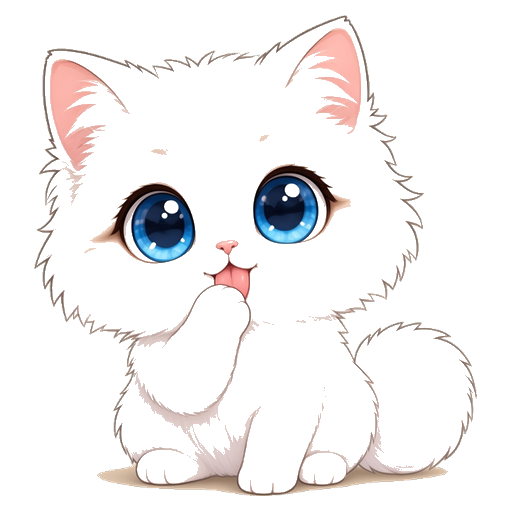
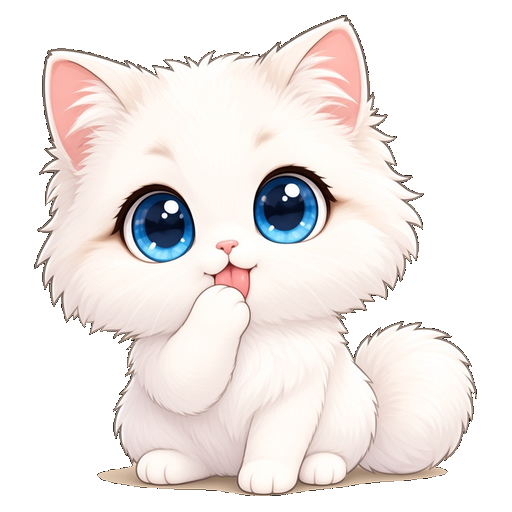
Fix homepage scroll, solid Nomi, hover-to-animate (#5)
Document scroll on homepage; solid idle Nomi PNG; animate WebP only on hover/focus.

diff --git a/style.css b/style.css
@@ -20,9 +20,11 @@ html{
 @media (prefers-reduced-motion:reduce){
   *,*::before,*::after{animation-duration:0.01ms !important;transition-duration:0.01ms !important;}
 }
+html{overflow-x:hidden;scroll-behavior:smooth}
 body{
-  display:flex;min-height:100dvh;
+  display:block;min-height:100dvh;
   padding:var(--pad-t) var(--pad-x) var(--pad-b);
+  padding-bottom:max(var(--pad-b),calc(var(--pad-b) + 48px));
   background:var(--bg);color:var(--ink);font-family:var(--font);font-weight:400;
 }
 a{color:inherit;text-decoration:none}
@@ -31,8 +33,8 @@ button{font:inherit;color:inherit;background:none;border:0;cursor:pointer}
 
 .frame{
   display:flex;flex-direction:column;width:100%;
-  height:calc(100dvh - var(--pad-t) - var(--pad-b));
-  min-height:min-content;overflow-x:hidden;overflow-y:auto;
+  min-height:calc(100dvh - var(--pad-t) - var(--pad-b));
+  height:auto;overflow:visible;
   background:var(--panel);
   border-top:var(--hairline) solid var(--rule);
   border-bottom:var(--hairline) solid var(--rule);
@@ -120,8 +122,9 @@ button{font:inherit;color:inherit;background:none;border:0;cursor:pointer}
   border-bottom:var(--hairline) solid var(--rule);
 }
 .hero{
-  flex:1 1 auto;display:flex;flex-direction:column;align-items:center;
-  min-height:0;overflow:hidden;isolation:isolate;position:relative;
+  flex:0 0 auto;display:flex;flex-direction:column;align-items:center;
+  min-height:clamp(520px,calc(100dvh - var(--hdr-h) - var(--hatch-h) * 2 - var(--strip-h) - 48px),920px);
+  overflow:visible;isolation:isolate;position:relative;
   border-bottom:var(--hairline) solid var(--rule);
   border-left:var(--hairline) solid var(--rule);
   border-right:var(--hairline) solid var(--rule);
@@ -137,8 +140,8 @@ button{font:inherit;color:inherit;background:none;border:0;cursor:pointer}
 .copy{flex:0 0 auto;padding:0 26rem;text-align:center;position:relative;z-index:1;width:100%}
 .gutter{flex:8 0 0;min-height:20rem;position:relative;z-index:1}
 .stage{
-  flex:78 1 0;min-height:0;overflow:hidden;display:flex;align-items:flex-end;justify-content:center;
-  position:relative;z-index:1;width:100%;padding:0 40rem;
+  flex:1 1 auto;min-height:320px;overflow:visible;display:flex;align-items:flex-end;justify-content:center;
+  position:relative;z-index:1;width:100%;padding:0 40rem 8rem;
 }
 .eyebrow{
   display:inline-flex;align-items:center;gap:8rem;
@@ -174,7 +177,7 @@ a.folio-main:hover{background:#faf9f6}
 }
 .folio-label > span{text-transform:uppercase;letter-spacing:0.08em}
 .folio-label strong{font-weight:400;color:var(--ink);letter-spacing:-0.01em;text-transform:none;font-size:max(11px,12.5rem)}
-.folio-body{flex:1 1 auto;min-height:0;padding:22rem 20rem 28rem;display:flex;flex-direction:column;gap:14rem;overflow:hidden}
+.folio-body{flex:1 1 auto;min-height:0;padding:22rem 20rem 28rem;display:flex;flex-direction:column;gap:14rem;overflow:visible}
 .folio-kicker{font-family:var(--mono);font-size:max(10px,11rem);letter-spacing:0.04em;color:var(--muted)}
 .folio-title{font-size:max(18px,22rem);letter-spacing:-0.025em;line-height:1.2;color:var(--ink)}
 .folio-desc{font-size:max(12px,13.2rem);line-height:1.45;letter-spacing:-0.015em;color:var(--body);max-width:34em}
@@ -210,8 +213,10 @@ a.folio-main:hover{background:#faf9f6}
 .nomi-fab:hover{transform:translateY(-4px) scale(1.06)}
 .nomi-fab img.nomi-face{
   width:200px;height:200px;object-fit:contain;display:block;border-radius:0;
-  pointer-events:none;background:transparent;filter:drop-shadow(0 10px 18px rgba(30,28,22,.14));
+  pointer-events:none;background:transparent;opacity:1;
+  filter:drop-shadow(0 10px 18px rgba(30,28,22,.14));
 }
+#nomiFab{opacity:1}
 .nomi-avatar img.nomi-face{width:100%;height:100%;object-fit:contain;display:block;border-radius:0;background:transparent}
 .nomi-fab .pulse{display:none}
 @keyframes nomiPulse{0%{transform:scale(.92);opacity:.55}70%{transform:scale(1.12);opacity:0}100%{opacity:0}}
@@ -280,7 +285,7 @@ a.folio-main:hover{background:#faf9f6}
 @media (max-width:780px){:root{--strip-h:64px}}
 @media (max-width:470px){
   :root{--pad-x:clamp(12px,4vw,18px);--pad-t:clamp(12px,3vw,16px);--pad-b:clamp(12px,3vw,16px);--hdr-h:56px;--strip-h:60px;--lift:7px;--rise:14px}
-  body{padding-left:max(var(--pad-x),env(safe-area-inset-left));padding-right:max(var(--pad-x),env(safe-area-inset-right));padding-bottom:max(var(--pad-b),env(safe-area-inset-bottom))}
+  body{padding-left:max(var(--pad-x),env(safe-area-inset-left));padding-right:max(var(--pad-x),env(safe-area-inset-right));padding-bottom:max(calc(var(--pad-b) + 56px),env(safe-area-inset-bottom))}
   h1{font-size:clamp(22px,calc(8.33vw - 2px),34px)}.sub{font-size:14px}
   .stage{padding:0 10px}.folio-body{padding:16px 14px 20px}.folio-title{font-size:18px}
   .nomi-fab{width:150px;height:150px;right:4px;bottom:4px}.nomi-fab img.nomi-face{width:150px;height:150px}.nomi-hint{display:none}

diff --git a/nomi-motion.js b/nomi-motion.js
@@ -1,0 +1,44 @@
+(function () {
+  var reduce = false;
+  try {
+    reduce = window.matchMedia('(prefers-reduced-motion: reduce)').matches;
+  } catch (e) {}
+
+  function assetBase(el) {
+    var src = (el && el.getAttribute('src')) || '';
+    var m = src.match(/^(.*\/)assets\//);
+    if (m) return m[1] + 'assets/';
+    if (src.indexOf('../assets/') !== -1) return '../assets/';
+    return 'assets/';
+  }
+
+  function bindFab(fab) {
+    var img = fab.querySelector('img.nomi-face');
+    if (!img) return;
+    var base = assetBase(img);
+    var idle = base + 'nomi-chibi-idle.png';
+    var anim = base + 'nomi-anim.webp';
+    function setIdle() {
+      img.src = idle;
+    }
+
+    function playAnim() {
+      if (reduce) return;
+      img.src = anim + '?play=' + Date.now();
+    }
+
+    setIdle();
+
+    fab.addEventListener('mouseenter', playAnim);
+    fab.addEventListener('focus', playAnim);
+    fab.addEventListener('mouseleave', setIdle);
+    fab.addEventListener('blur', setIdle);
+  }
+
+  document.querySelectorAll('.nomi-fab').forEach(bindFab);
+
+  document.querySelectorAll('.nomi-avatar img.nomi-face').forEach(function (img) {
+    var base = assetBase(img);
+    img.src = base + 'nomi-chibi-idle.png';
+  });
+})();

diff --git a/articles/01-2023-chatgpt-fear.html b/articles/01-2023-chatgpt-fear.html
@@ -133,13 +133,13 @@
   </div>
   <button type="button" class="nomi-fab" id="nomiFab" aria-haspopup="dialog" aria-controls="nomiLayer" aria-expanded="false" aria-label="和 Nomi 聊天">
     <span class="nomi-hint">摸一下 Nomi</span>
-    <img class="nomi-face" src="../assets/nomi-anim.webp" width="200" height="200" alt="Nomi">
+    <img class="nomi-face" src="../assets/nomi-chibi-idle.png" width="200" height="200" alt="Nomi">
   </button>
   <div class="nomi-layer" id="nomiLayer" role="dialog" aria-modal="true" aria-labelledby="nomiTitle" hidden>
     <div class="nomi-panel">
       <div class="nomi-head">
         <div class="nomi-avatar" aria-hidden="true">
-          <img class="nomi-face" src="../assets/nomi-anim.webp" width="48" height="48" alt="">
+          <img class="nomi-face" src="../assets/nomi-chibi-idle.png" width="48" height="48" alt="">
         </div>
         <div class="nomi-head-txt">
           <strong id="nomiTitle">Nomi</strong>
@@ -158,7 +158,8 @@
         <button type="submit">发送</button>
       </form>
     </div>
-  </div><script src="../nomi.js"></script>
+  </div><script src="../nomi-motion.js"></script>
+<script src="../nomi.js"></script>
 <script src="../site-pages.js"></script>
 </body>
 </html>

diff --git a/articles/02-2024-not-just-chat.html b/articles/02-2024-not-just-chat.html
@@ -151,13 +151,13 @@
   </div>
   <button type="button" class="nomi-fab" id="nomiFab" aria-haspopup="dialog" aria-controls="nomiLayer" aria-expanded="false" aria-label="和 Nomi 聊天">
     <span class="nomi-hint">摸一下 Nomi</span>
-    <img class="nomi-face" src="../assets/nomi-anim.webp" width="200" height="200" alt="Nomi">
+    <img class="nomi-face" src="../assets/nomi-chibi-idle.png" width="200" height="200" alt="Nomi">
   </button>
   <div class="nomi-layer" id="nomiLayer" role="dialog" aria-modal="true" aria-labelledby="nomiTitle" hidden>
     <div class="nomi-panel">
       <div class="nomi-head">
         <div class="nomi-avatar" aria-hidden="true">
-          <img class="nomi-face" src="../assets/nomi-anim.webp" width="48" height="48" alt="">
+          <img class="nomi-face" src="../assets/nomi-chibi-idle.png" width="48" height="48" alt="">
         </div>
         <div class="nomi-head-txt">
           <strong id="nomiTitle">Nomi</strong>
@@ -176,7 +176,8 @@
         <button type="submit">发送</button>
       </form>
     </div>
-  </div><script src="../nomi.js"></script>
+  </div><script src="../nomi-motion.js"></script>
+<script src="../nomi.js"></script>
 <script src="../site-pages.js"></script>
 </body>
 </html>

diff --git a/articles/03-2025-fixing-ai-errors.html b/articles/03-2025-fixing-ai-errors.html
@@ -215,13 +215,13 @@
   </div>
   <button type="button" class="nomi-fab" id="nomiFab" aria-haspopup="dialog" aria-controls="nomiLayer" aria-expanded="false" aria-label="和 Nomi 聊天">
     <span class="nomi-hint">摸一下 Nomi</span>
-    <img class="nomi-face" src="../assets/nomi-anim.webp" width="200" height="200" alt="Nomi">
+    <img class="nomi-face" src="../assets/nomi-chibi-idle.png" width="200" height="200" alt="Nomi">
   </button>
   <div class="nomi-layer" id="nomiLayer" role="dialog" aria-modal="true" aria-labelledby="nomiTitle" hidden>
     <div class="nomi-panel">
       <div class="nomi-head">
         <div class="nomi-avatar" aria-hidden="true">
-          <img class="nomi-face" src="../assets/nomi-anim.webp" width="48" height="48" alt="">
+          <img class="nomi-face" src="../assets/nomi-chibi-idle.png" width="48" height="48" alt="">
         </div>
         <div class="nomi-head-txt">
           <strong id="nomiTitle">Nomi</strong>
@@ -240,7 +240,8 @@
         <button type="submit">发送</button>
       </form>
     </div>
-  </div><script src="../nomi.js"></script>
+  </div><script src="../nomi-motion.js"></script>
+<script src="../nomi.js"></script>
 <script src="../site-pages.js"></script>
 </body>
 </html>

diff --git a/articles/04-2025-agent-prd.html b/articles/04-2025-agent-prd.html
@@ -220,13 +220,13 @@
   </div>
   <button type="button" class="nomi-fab" id="nomiFab" aria-haspopup="dialog" aria-controls="nomiLayer" aria-expanded="false" aria-label="和 Nomi 聊天">
     <span class="nomi-hint">摸一下 Nomi</span>
-    <img class="nomi-face" src="../assets/nomi-anim.webp" width="200" height="200" alt="Nomi">
+    <img class="nomi-face" src="../assets/nomi-chibi-idle.png" width="200" height="200" alt="Nomi">
   </button>
   <div class="nomi-layer" id="nomiLayer" role="dialog" aria-modal="true" aria-labelledby="nomiTitle" hidden>
     <div class="nomi-panel">
       <div class="nomi-head">
         <div class="nomi-avatar" aria-hidden="true">
-          <img class="nomi-face" src="../assets/nomi-anim.webp" width="48" height="48" alt="">
+          <img class="nomi-face" src="../assets/nomi-chibi-idle.png" width="48" height="48" alt="">
         </div>
         <div class="nomi-head-txt">
           <strong id="nomiTitle">Nomi</strong>
@@ -245,7 +245,8 @@
         <button type="submit">发送</button>
       </form>
     </div>
-  </div><script src="../nomi.js"></script>
+  </div><script src="../nomi-motion.js"></script>
+<script src="../nomi.js"></script>
 <script src="../site-pages.js"></script>
 </body>
 </html>

diff --git a/articles/05-2026-ai-news-notes.html b/articles/05-2026-ai-news-notes.html
@@ -163,13 +163,13 @@
   </div>
   <button type="button" class="nomi-fab" id="nomiFab" aria-haspopup="dialog" aria-controls="nomiLayer" aria-expanded="false" aria-label="和 Nomi 聊天">
     <span class="nomi-hint">摸一下 Nomi</span>
-    <img class="nomi-face" src="../assets/nomi-anim.webp" width="200" height="200" alt="Nomi">
+    <img class="nomi-face" src="../assets/nomi-chibi-idle.png" width="200" height="200" alt="Nomi">
   </button>
   <div class="nomi-layer" id="nomiLayer" role="dialog" aria-modal="true" aria-labelledby="nomiTitle" hidden>
     <div class="nomi-panel">
       <div class="nomi-head">
         <div class="nomi-avatar" aria-hidden="true">
-          <img class="nomi-face" src="../assets/nomi-anim.webp" width="48" height="48" alt="">
+          <img class="nomi-face" src="../assets/nomi-chibi-idle.png" width="48" height="48" alt="">
         </div>
         <div class="nomi-head-txt">
           <strong id="nomiTitle">Nomi</strong>
@@ -188,7 +188,8 @@
         <button type="submit">发送</button>
       </form>
     </div>
-  </div><script src="../nomi.js"></script>
+  </div><script src="../nomi-motion.js"></script>
+<script src="../nomi.js"></script>
 <script src="../site-pages.js"></script>
 </body>
 </html>

diff --git a/articles.html b/articles.html
@@ -68,13 +68,13 @@
   </div>
   <button type="button" class="nomi-fab" id="nomiFab" aria-haspopup="dialog" aria-controls="nomiLayer" aria-expanded="false" aria-label="和 Nomi 聊天">
     <span class="nomi-hint">摸一下 Nomi</span>
-    <img class="nomi-face" src="assets/nomi-anim.webp" width="200" height="200" alt="Nomi">
+    <img class="nomi-face" src="assets/nomi-chibi-idle.png" width="200" height="200" alt="Nomi">
   </button>
   <div class="nomi-layer" id="nomiLayer" role="dialog" aria-modal="true" aria-labelledby="nomiTitle" hidden>
     <div class="nomi-panel">
       <div class="nomi-head">
         <div class="nomi-avatar" aria-hidden="true">
-          <img class="nomi-face" src="assets/nomi-anim.webp" width="48" height="48" alt="">
+          <img class="nomi-face" src="assets/nomi-chibi-idle.png" width="48" height="48" alt="">
         </div>
         <div class="nomi-head-txt">
           <strong id="nomiTitle">Nomi</strong>
@@ -93,7 +93,8 @@
         <button type="submit">发送</button>
       </form>
     </div>
-  </div><script src="nomi.js"></script>
+  </div><script src="nomi-motion.js"></script>
+<script src="nomi.js"></script>
 <script src="site-pages.js"></script>
 </body>
 </html>

diff --git a/projects.html b/projects.html
@@ -96,13 +96,13 @@
   </div>
   <button type="button" class="nomi-fab" id="nomiFab" aria-haspopup="dialog" aria-controls="nomiLayer" aria-expanded="false" aria-label="和 Nomi 聊天">
     <span class="nomi-hint">摸一下 Nomi</span>
-    <img class="nomi-face" src="assets/nomi-anim.webp" width="200" height="200" alt="Nomi">
+    <img class="nomi-face" src="assets/nomi-chibi-idle.png" width="200" height="200" alt="Nomi">
   </button>
   <div class="nomi-layer" id="nomiLayer" role="dialog" aria-modal="true" aria-labelledby="nomiTitle" hidden>
     <div class="nomi-panel">
       <div class="nomi-head">
         <div class="nomi-avatar" aria-hidden="true">
-          <img class="nomi-face" src="assets/nomi-anim.webp" width="48" height="48" alt="">
+          <img class="nomi-face" src="assets/nomi-chibi-idle.png" width="48" height="48" alt="">
         </div>
         <div class="nomi-head-txt">
           <strong id="nomiTitle">Nomi</strong>
@@ -122,7 +122,8 @@
       </form>
     </div>
   </div>
-  <script src="nomi.js"></script>
+  <script src="nomi-motion.js"></script>
+<script src="nomi.js"></script>
   <script src="site-pages.js"></script>
 </body>
 </html>

diff --git a/about.html b/about.html
@@ -73,13 +73,13 @@
   </div>
   <button type="button" class="nomi-fab" id="nomiFab" aria-haspopup="dialog" aria-controls="nomiLayer" aria-expanded="false" aria-label="和 Nomi 聊天">
     <span class="nomi-hint">摸一下 Nomi</span>
-    <img class="nomi-face" src="assets/nomi-anim.webp" width="200" height="200" alt="Nomi">
+    <img class="nomi-face" src="assets/nomi-chibi-idle.png" width="200" height="200" alt="Nomi">
   </button>
   <div class="nomi-layer" id="nomiLayer" role="dialog" aria-modal="true" aria-labelledby="nomiTitle" hidden>
     <div class="nomi-panel">
       <div class="nomi-head">
         <div class="nomi-avatar" aria-hidden="true">
-          <img class="nomi-face" src="assets/nomi-anim.webp" width="48" height="48" alt="">
+          <img class="nomi-face" src="assets/nomi-chibi-idle.png" width="48" height="48" alt="">
         </div>
         <div class="nomi-head-txt">
           <strong id="nomiTitle">Nomi</strong>
@@ -99,7 +99,8 @@
       </form>
     </div>
   </div>
-  <script src="nomi.js"></script>
+  <script src="nomi-motion.js"></script>
+<script src="nomi.js"></script>
   <script src="site-pages.js"></script>
 </body>
 </html>

diff --git a/index.html b/index.html
@@ -108,14 +108,14 @@
 
   <button type="button" class="nomi-fab" id="nomiFab" aria-haspopup="dialog" aria-controls="nomiLayer" aria-expanded="false" aria-label="和 Nomi 聊天">
     <span class="nomi-hint">摸一下 Nomi</span>
-    <img class="nomi-face" src="assets/nomi-anim.webp" width="200" height="200" alt="Nomi">
+    <img class="nomi-face" src="assets/nomi-chibi-idle.png" width="200" height="200" alt="Nomi">
   </button>
 
   <div class="nomi-layer" id="nomiLayer" role="dialog" aria-modal="true" aria-labelledby="nomiTitle" hidden>
     <div class="nomi-panel">
       <div class="nomi-head">
         <div class="nomi-avatar" aria-hidden="true">
-          <img class="nomi-face" src="assets/nomi-anim.webp" width="48" height="48" alt="">
+          <img class="nomi-face" src="assets/nomi-chibi-idle.png" width="48" height="48" alt="">
         </div>
         <div class="nomi-head-txt">
           <strong id="nomiTitle">Nomi</strong>
@@ -136,6 +136,7 @@
     </div>
   </div>
 
+  <script src="nomi-motion.js"></script>
   <script src="site-home.js"></script>
 </body>
 </html>

diff --git a/site-home.js b/site-home.js
@@ -166,6 +166,7 @@
   }
   var started=false;
   function kick(){ if(started) return; started=true; requestAnimationFrame(function(){ requestAnimationFrame(start); }); }
-  if(document.fonts && document.fonts.ready) document.fonts.ready.then(kick);
-  setTimeout(kick, 1200);
+  if(document.fonts && document.fonts.ready) document.fonts.ready.then(kick).catch(kick);
+  setTimeout(kick, 400);
+  setTimeout(function(){ if(document.documentElement.classList.contains('js-anim')) finish(); }, 2800);
 })();
